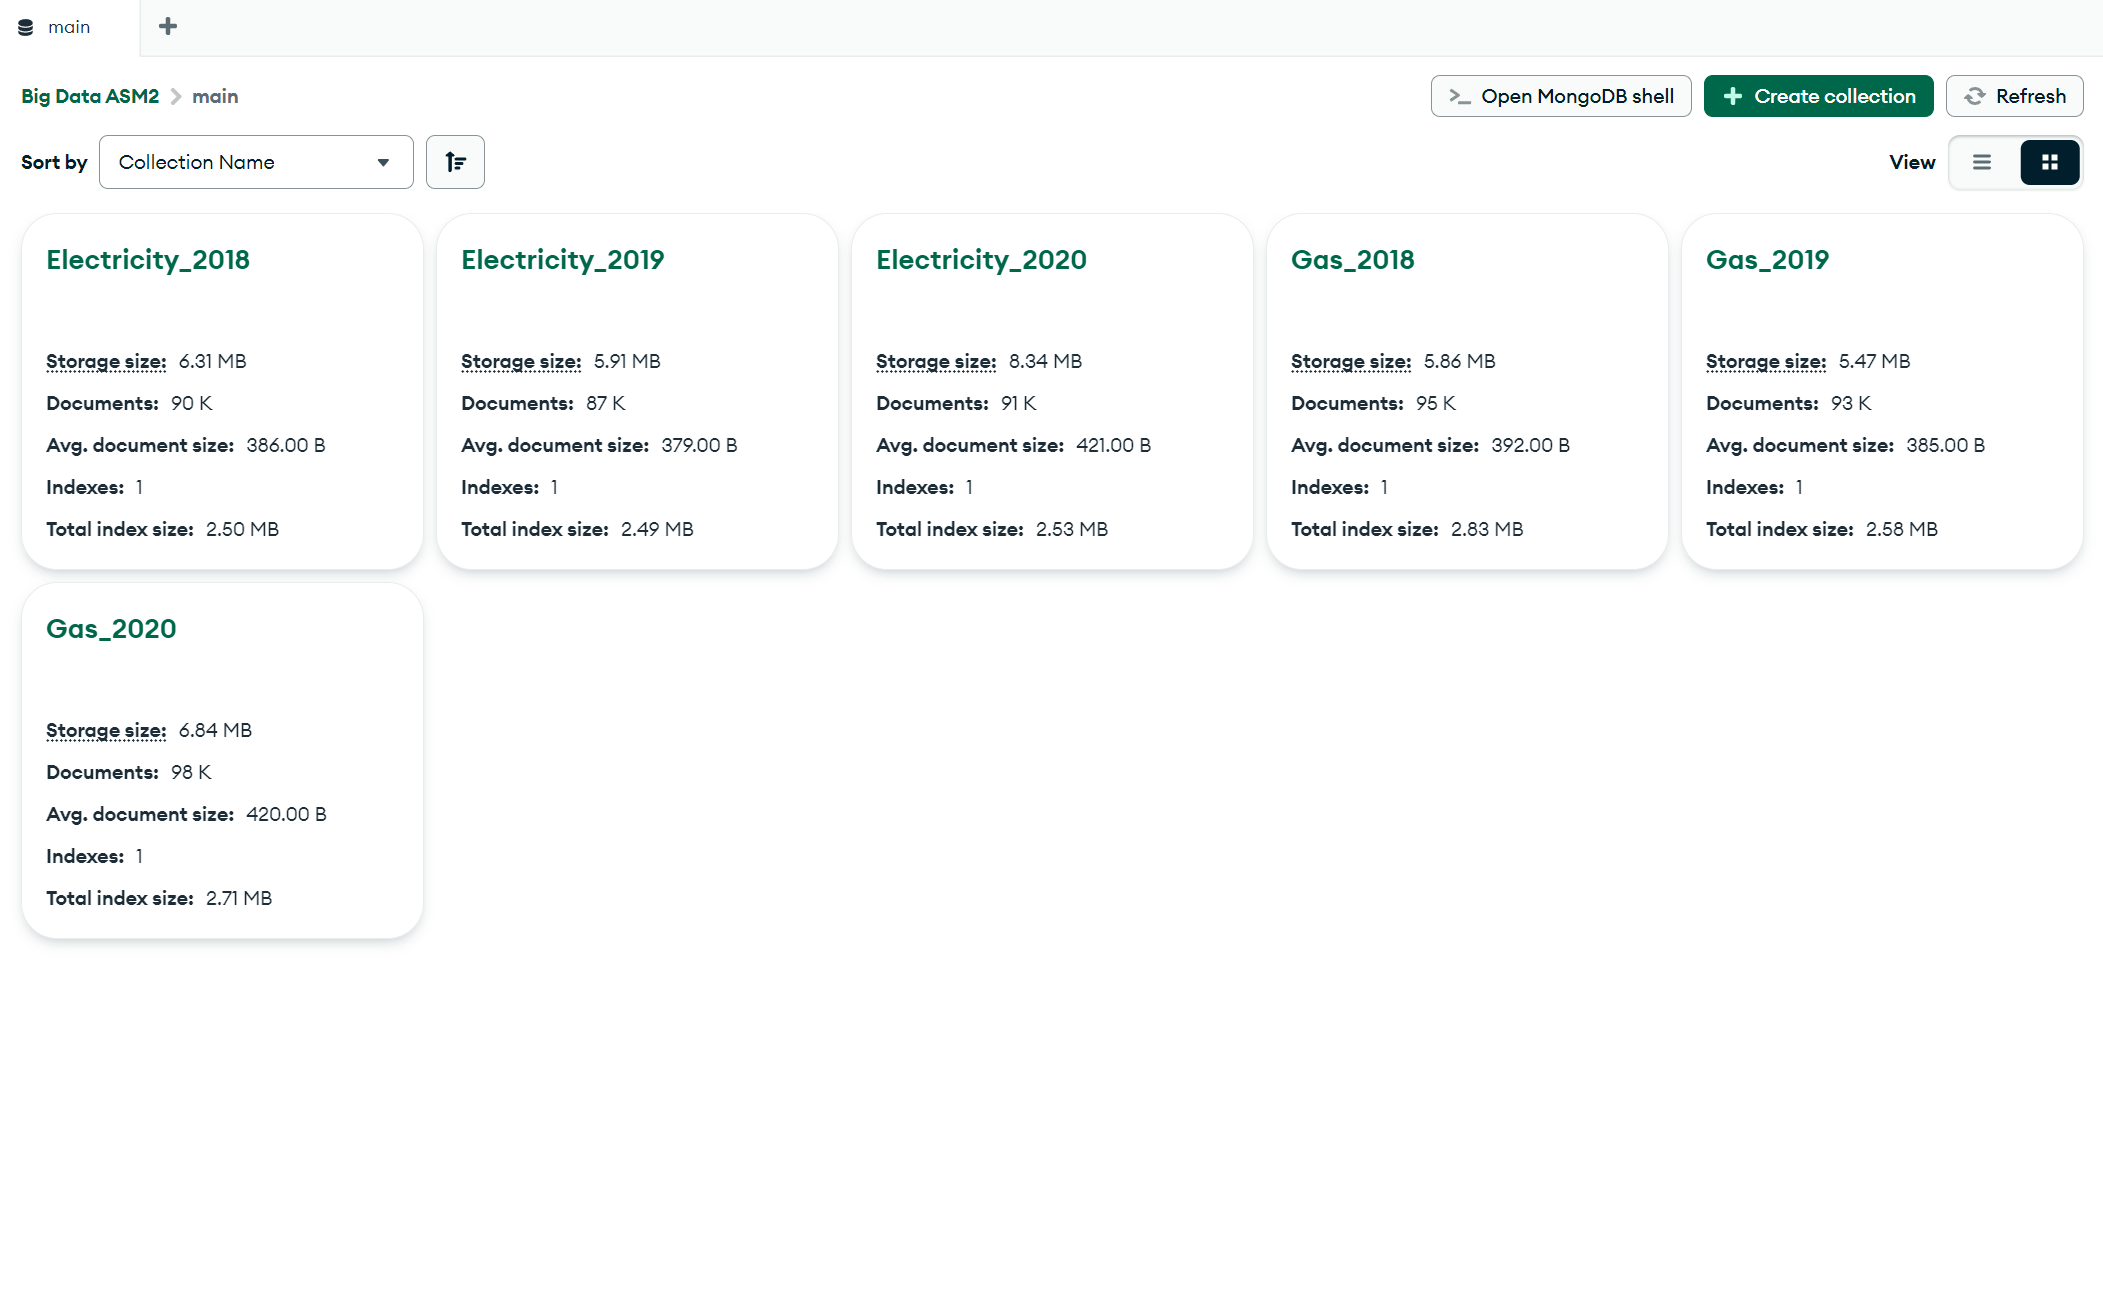
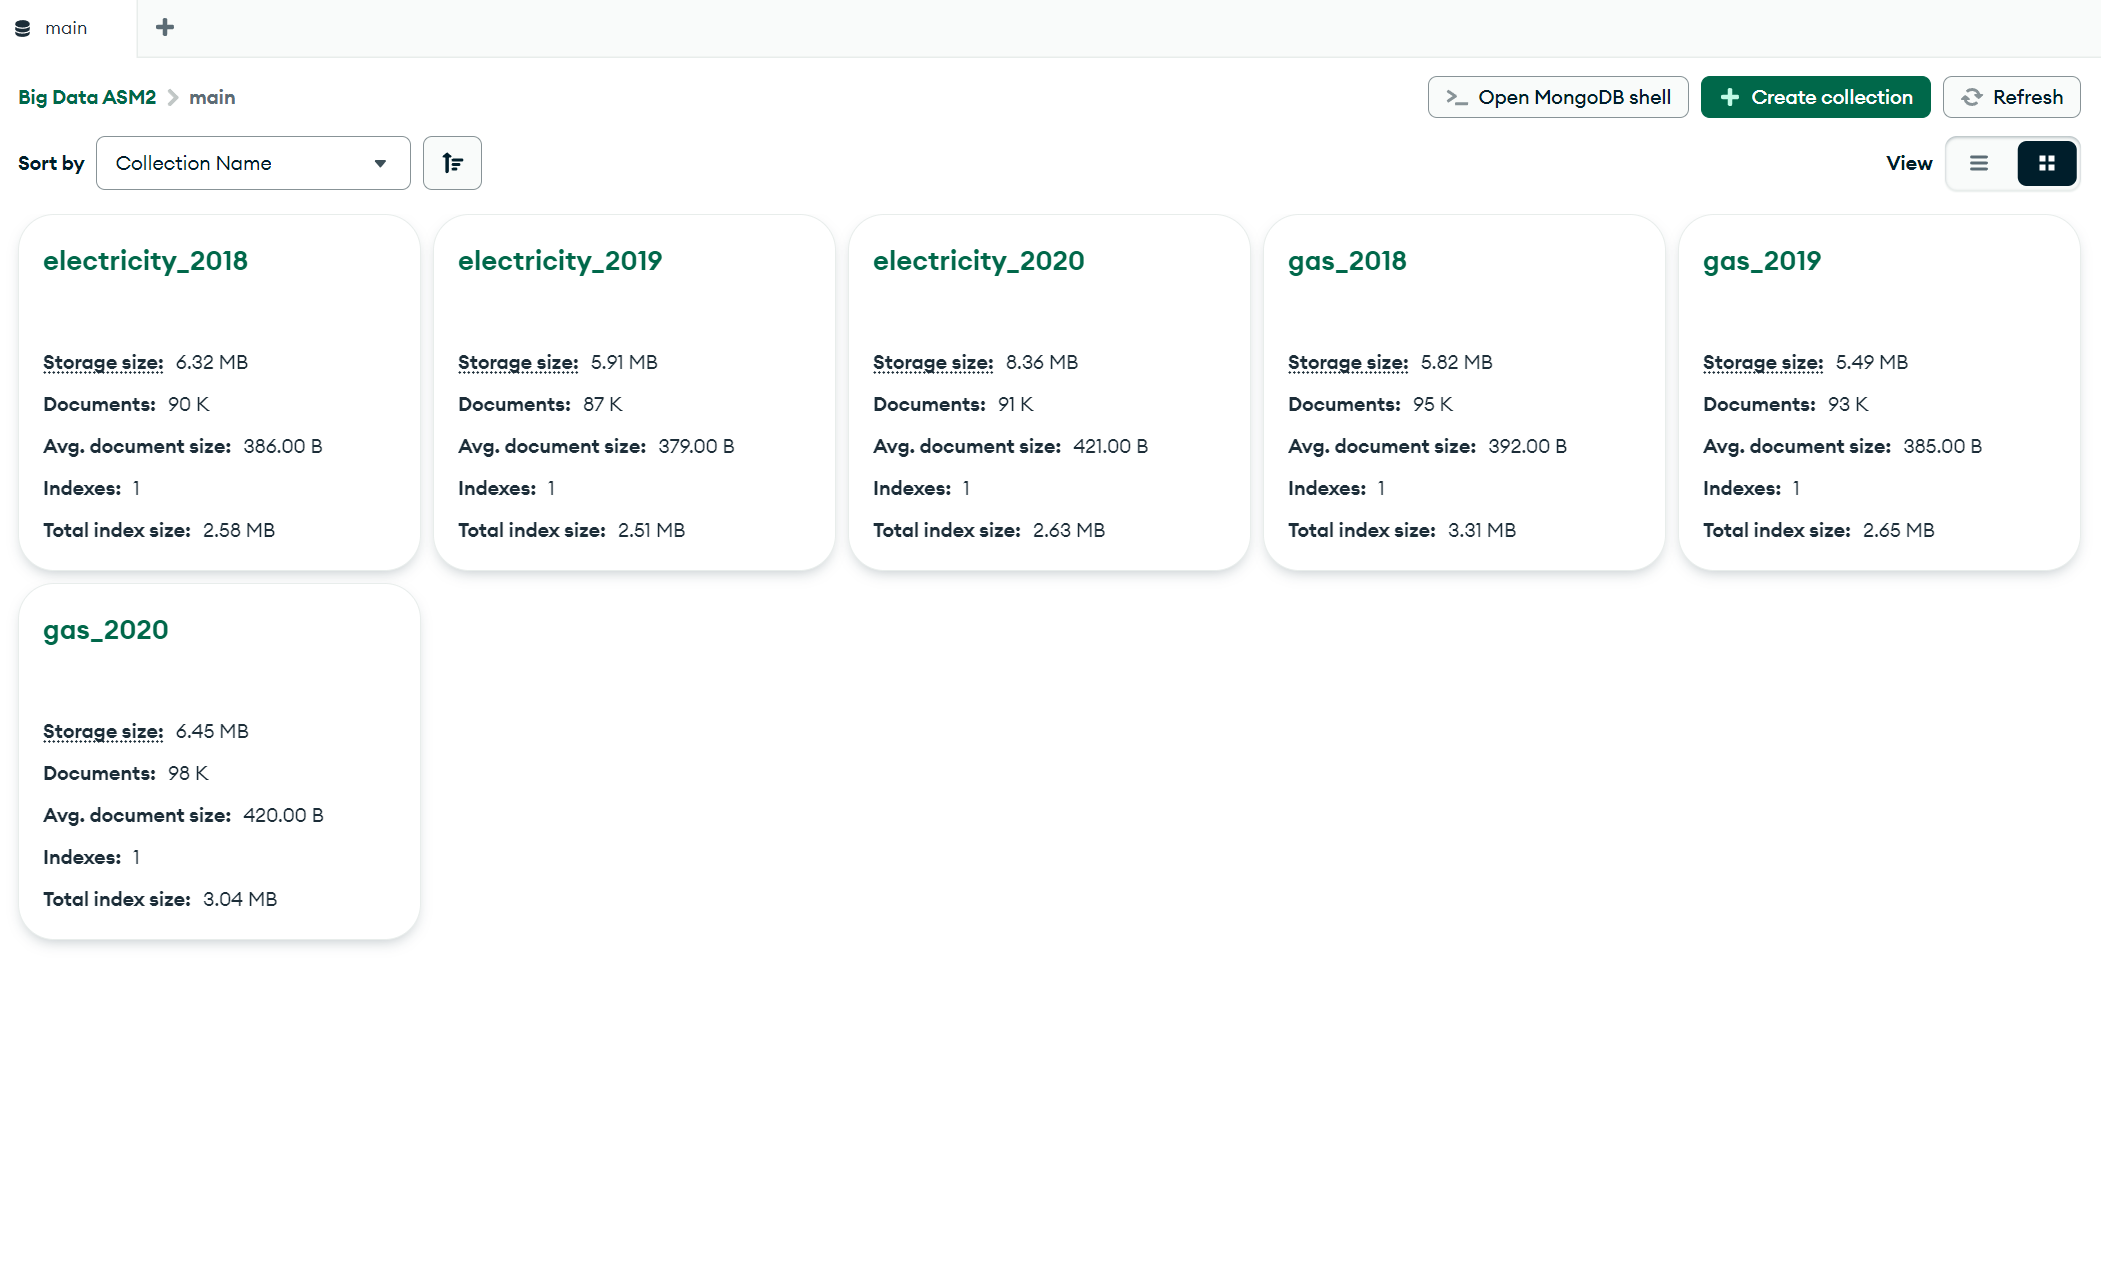
Upload code and image for task 1

diff --git a/database.py b/database.py
@@ -1,0 +1,59 @@
+import pymongo
+import pandas as pd
+import os
+
+ELECTRICITY_DIR = "./data/Electricity"
+GAS_DIR = "./data/Gas"
+
+# You can replace the URI with your own MongoDB URI
+MONGO_URI = "mongodb+srv://cuongtran:cuongtran123@cluster0.5zjcy.mongodb.net/?retryWrites=true&w=majority&appName=Cluster0"
+
+# MongoDB connection
+client = pymongo.MongoClient(MONGO_URI)
+db = client["main"]
+
+
+# Data mapping for collections
+collections_mapping = {
+    "electricity": {
+        "2018": ["coteq_electricity_2018.csv", "stedin_electricity_2018.csv", "westland-infra_electricity_2018.csv"],
+        "2019": ["coteq_electricity_2019.csv", "stedin_electricity_2019.csv", "westland-infra_electricity_2019.csv"],
+        "2020": ["coteq_electricity_2020.csv", "stedin_electricity_2020.csv", "westland-infra_electricity_2020.csv"]
+    },
+    "gas": {
+        "2018": ["coteq_gas_2018.csv", "stedin_gas_2018.csv", "westland-infra_gas_2018.csv"],
+        "2019": ["coteq_gas_2019.csv", "stedin_gas_2019.csv", "westland-infra_gas_2019.csv"],
+        "2020": ["coteq_gas_2020.csv", "stedin_gas_2020.csv", "westland-infra_gas_2020.csv"]
+    }
+}
+
+# Check if a collection exists in MongoDB
+def is_collection_exist(collection_name):
+    return collection_name in db.list_collection_names()
+
+# Load data into MongoDB
+def load_data_to_mongodb(database, directory, year, file_list):
+    collection_name = f"{database}_{year}"
+    if is_collection_exist(collection_name):
+        print(f"Collection {collection_name} already exists. Skipping data load process.")
+        return
+    
+    collection = db[collection_name]
+    for file_name in file_list:
+        file_path = os.path.join(directory, file_name)
+        df = pd.read_csv(file_path)
+        records = df.to_dict(orient="records")
+        collection.insert_many(records)
+        print(f"Data from {file_name} has been loaded to collection {collection_name}.")
+
+# Main function
+def main():
+    for database, years in collections_mapping.items():
+        for year, file_list in years.items():
+            if database == "electricity":
+                load_data_to_mongodb(database, ELECTRICITY_DIR, year, file_list)
+            elif database == "gas":
+                load_data_to_mongodb(database, GAS_DIR, year, file_list)
+
+if __name__ == "__main__":
+    main()
